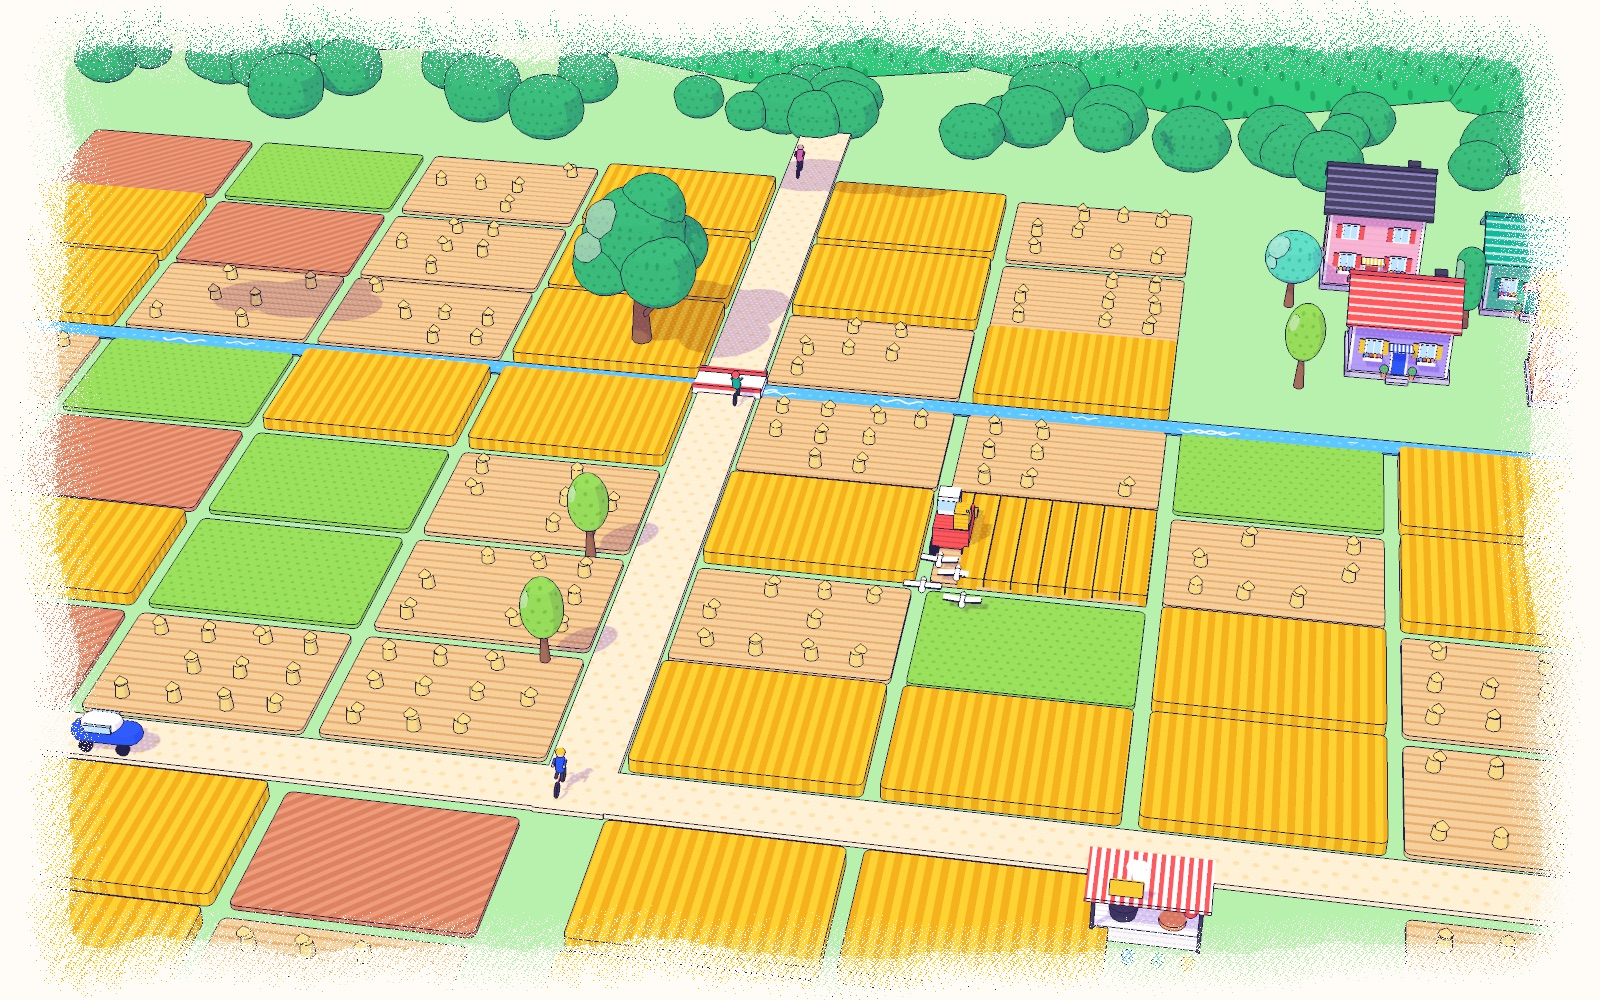
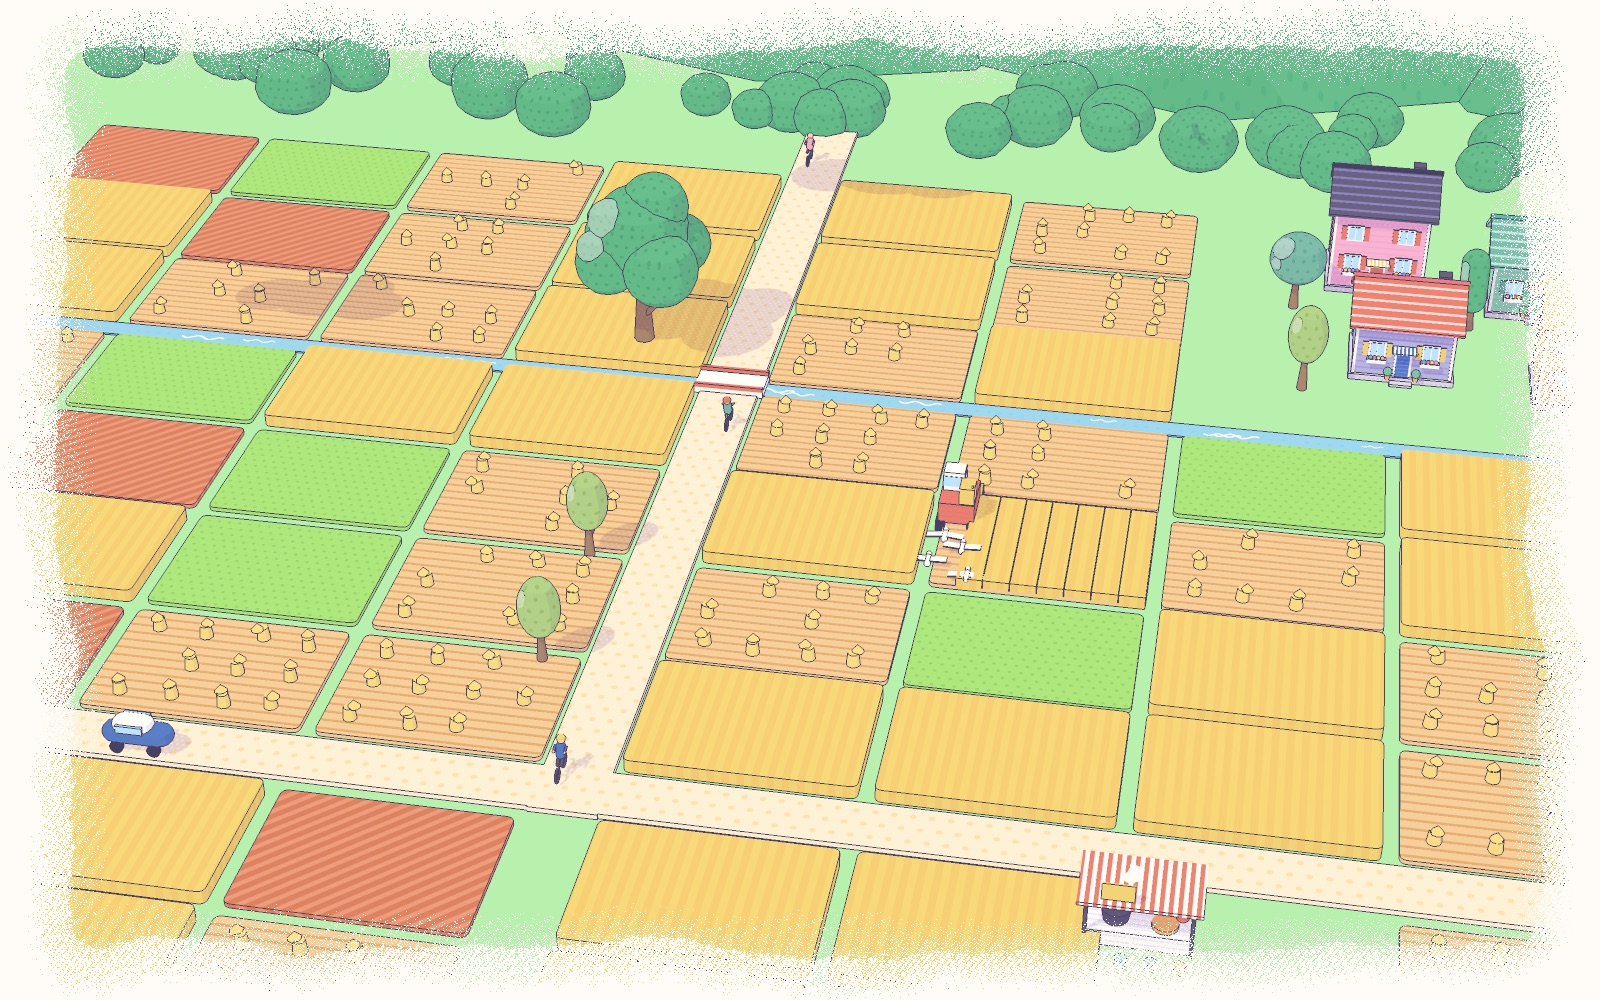
節氣圖鑑：配色改用日本傳統色（和色）
- 新增 wairo.js：和色調色盤 WA，以及 wa()，把 Memphis 原調色盤換成對應和色，其他高彩度色碼統一降彩度、提亮
- PAL、CROWN 改從 WA 取色；材質入口 flat() 一律經過 wa()
- 陰影改淡藤鼠色、描邊改鳩羽紫；頁面季節色和目錄點也換成和色
- 重拍封面

diff --git a/works/solar-terms/src/memphis.js b/works/solar-terms/src/memphis.js
@@ -5,13 +5,15 @@
 // - 直接畫到 WebGL canvas，不經過 2D canvas；下方三行字改用 DOM（見 main.js）
 // - 外框的雜訊用「設計單位」計算，手機和桌機的毛邊粗細看起來一致
 // - 新增 noEdge(obj)：不畫描邊、但仍會遮住後面物件描邊的東西（雲）
+// - 材質顏色先經過 wa()（./wairo.js）換成和色；陰影改成淡的藤鼠色、描邊改成鳩羽紫，配柔和的顏色（節氣圖鑑）
 // - 新增 flat(hex, { snowY })：高於 snowY（加一點起伏）的地方畫成白色積雪，逐像素計算，雪線邊緣是圓滑的（節氣圖鑑的合歡山）
 // Memphis Diorama: 3D engine
 // Flat materials (no lighting model: fixed face tones + hard-edged deep-indigo shadows + world-space patterns + facade windows),
 // normal/depth outlines, grainy spray-paint frame, three lines of type at the bottom. Everything is a deterministic function of t.
 import * as THREE from 'three';
+import { wa } from './wairo.js';
 
-export const INK = '#25214A', PAPER = '#FFFCF6';
+export const INK = '#4A4262', PAPER = '#FFFCF6';
 export const SUN = new THREE.Vector3(-0.42, 0.78, 0.46).normalize();
 
 // ---------- Random ----------
@@ -139,13 +141,13 @@ void main() {
   float tone = top ? 1.0 : 0.95;
   vec3 c = col * (uLit > 0.5 ? 1.0 : tone);
   if (uShadow > 0.5 && !emit) {
-    vec3 shc = mix(vec3(1.0), vec3(0.70, 0.58, 0.90), sh);
+    vec3 shc = mix(vec3(1.0), vec3(0.80, 0.74, 0.90), sh);
     // halftone: light dots printed in the shadows, like print (world space, moves with the object)
     if (uHT > 0.5 && sh > 0.5) {
       vec2 wq = (abs(n.y) > 0.5 ? vWP.xz : vec2(abs(n.x) > abs(n.z) ? vWP.z : vWP.x, vWP.y)) / 0.38;
       wq.x += 0.5 * mod(floor(wq.y), 2.0);
       float dd = 1.0 - aaStep(0.2, length(fract(wq) - 0.5));
-      shc = mix(shc, mix(vec3(1.0), vec3(0.70, 0.58, 0.90), sh * 0.45), dd);
+      shc = mix(shc, mix(vec3(1.0), vec3(0.80, 0.74, 0.90), sh * 0.45), dd);
     }
     c *= shc;
   }
@@ -174,18 +176,19 @@ void main() {
 }`;
 
 const linear = (hex) => new THREE.Color(hex);
+const tone = (hex) => new THREE.Color(wa(hex));
 const LAMPS = Array.from({ length: 48 }, () => new THREE.Vector4(0, 0, 0, 0));
 const GLOBAL = { uNight: { value: 0 }, uSun: { value: SUN.clone() }, uLamps: { value: LAMPS }, uWave: { value: 1e5 }, uWaveC: { value: new THREE.Vector2() }, uZone: { value: new THREE.Vector4() }, uZoneLit: { value: 1 }, uFlash: { value: 0 }, uDusk: { value: 0 }, uSeas: { value: new THREE.Vector3(0, 0, -1) }, uHT: { value: 0 } };
 
 export function flat(hex, o = {}) {
   const u = THREE.UniformsUtils.merge([THREE.UniformsLib.lights, {
-    uCol: { value: linear(hex) }, uPatCol: { value: linear(o.patCol || '#FFFFFF') },
-    uCol2: { value: linear(o.col2 || hex) }, uPatCol2: { value: linear(o.patCol2 || o.patCol || '#FFFFFF') }, uHasC2: { value: o.col2 ? 1 : 0 },
-    uInk: { value: linear(INK) }, uWinDay: { value: linear('#BFE4FF') }, uWinLit: { value: linear('#FFD36E') }, uWinDark: { value: linear('#2C2752') },
-    uWarm: { value: linear('#FFE3A3') },
+    uCol: { value: tone(hex) }, uPatCol: { value: tone(o.patCol || '#FFFFFF') },
+    uCol2: { value: tone(o.col2 || hex) }, uPatCol2: { value: tone(o.patCol2 || o.patCol || '#FFFFFF') }, uHasC2: { value: o.col2 ? 1 : 0 },
+    uInk: { value: linear(INK) }, uWinDay: { value: linear('#BFE4FF') }, uWinLit: { value: tone('#FFD36E') }, uWinDark: { value: linear('#2C2752') },
+    uWarm: { value: tone('#FFE3A3') },
     uPat: { value: o.pat || 0 }, uPatScale: { value: o.patScale || 1 }, uWin: { value: o.win ? 1 : 0 },
     uY0: { value: o.y0 || 0 }, uY1: { value: o.y1 || 0 }, uSeed: { value: o.seed || 0 },
-    uEmit: { value: o.emit ? 1 : 0 }, uNC: { value: linear(o.nightCol || '#000000') }, uHasNC: { value: o.nightCol ? 1 : 0 }, uZA: { value: o.zoneAware ? 1 : 0 }, uShadow: { value: o.shadow === false ? 0 : 1 }, uLit: { value: o.lit ? 1 : 0 }, uSnowY: { value: o.snowY ?? -1e5 },
+    uEmit: { value: o.emit ? 1 : 0 }, uNC: { value: tone(o.nightCol || '#000000') }, uHasNC: { value: o.nightCol ? 1 : 0 }, uZA: { value: o.zoneAware ? 1 : 0 }, uShadow: { value: o.shadow === false ? 0 : 1 }, uLit: { value: o.lit ? 1 : 0 }, uSnowY: { value: o.snowY ?? -1e5 },
   }]);
   Object.assign(u, GLOBAL);
   return new THREE.ShaderMaterial({ uniforms: u, vertexShader: FLAT_VS, fragmentShader: FLAT_FS, lights: true });

diff --git a/works/solar-terms/src/kit.js b/works/solar-terms/src/kit.js
@@ -5,6 +5,7 @@ import * as THREE from 'three';
 import { mergeGeometries } from 'three/addons/utils/BufferGeometryUtils.js';
 import { flat, mesh, box, rng, lerp, clamp01, ease, noEdge, setWave, setLamps } from './memphis.js';
 import { person, walk } from './people.js';
+import { WA, wa } from './wairo.js';
 
 export { THREE, flat, mesh, box, lerp, clamp01, ease, noEdge, person, walk, setWave, setLamps };
 export const TAU = Math.PI * 2;
@@ -37,11 +38,11 @@ export const lt = (hex, k) => '#' + new THREE.Color(hex).lerp(new THREE.Color(k 
 export const dots = (hex, s = 1, pc) => M(hex, { pat: 1, patCol: pc || lt(hex, -0.1), patScale: s });
 export const stripes = (hex, s = 1, pc, pat = 6) => M(hex, { pat, patCol: pc || lt(hex, -0.1), patScale: s });
 
-// 調色盤（STYLE.md §3 的例子）：每頁從這裡挑 5～7 個飽和色 + 2～3 個粉彩，依區域集中
+// 調色盤：沿用 Memphis 的名字，顏色換成和色（./wairo.js）。每頁挑 5～7 個主色 + 2～3 個粉彩，依區域集中
 export const PAL = {
-  yellow: '#FFD234', pink: '#FF7EB3', sky: '#5CC8FF', mint: '#5EDFB0', lilac: '#B9A0FF', peach: '#FF9C6B',
-  cobalt: '#2F5BFF', coral: '#FF5A5F', green: '#2FCB7A', teal: '#14B8A0', plum: '#4A4468', white: '#FFFFFF',
-  trunk: '#A8705A', base: '#DCD4EE', warm: '#FFD36E',
+  yellow: WA.tamago, pink: WA.toki, sky: WA.sora, mint: WA.byakuroku, lilac: WA.fuji, peach: WA.anzu,
+  cobalt: WA.tsuyukusa, coral: WA.sango, green: WA.wakatake, teal: WA.seiji, plum: WA.hatoba, white: WA.hakuji,
+  trunk: WA.kurumi, base: WA.shirafuji, warm: '#F9D58E',
 };
 
 // ---------- 合併幾何：靜態的小東西依材質合併成一個 mesh，省 draw call ----------
@@ -106,9 +107,9 @@ export function ribbon(pts, w, yAt = () => 0.05, seg = 200) {
 // ---------- 樹：樹幹 + 一根枝 + 一團 lobes，向陽面加亮的 lobes（STYLE.md §9：至少五種樹冠形狀）----------
 export const CS = (main, dot, bloom) => ({ main: dots(main, 0.75, dot), hi: dots(lt(main, 0.3), 0.6, lt(dot, 0.28)), bloom });
 export const CROWN = {
-  green: CS('#3CBE7E', '#2FA866'), lime: CS('#9BE15D', '#7FCC45'), teal: CS('#62E0C8', '#3FC7AE'), pine: CS('#1FA862', '#17905A'),
-  maple: CS('#FF7A59', '#F25C3C'), gold: CS('#FFC93C', '#F5B21C'),
-  lilac: CS('#C9B8FF', '#FFFFFF'), ice: CS('#BFE9FF', '#FFFFFF'), mint: CS('#A8F0D2', '#FFFFFF'),
+  green: CS(WA.wakatake, '#57AC7C'), lime: CS(WA.wakaba, '#A1C473'), teal: CS(WA.seiji, '#6AAD99'), pine: CS(WA.tokiwa, '#438A6A'),   // 若竹、若葉、青磁、常磐
+  maple: CS(WA.sango, '#DF715E'), gold: CS(WA.yamabuki, '#E6B158'),                                                                  // 珊瑚朱、山吹
+  lilac: CS(WA.fuji, '#FFFFFF'), ice: CS(WA.sora, '#FFFFFF'), mint: CS(WA.byakuroku, '#FFFFFF'),                                       // 藤、空、白緑
 };
 const TRUNK = () => M(PAL.trunk);
 export function tree(parent, R, x, z, kind, cs, s = 1, y = 0) {
@@ -430,7 +431,7 @@ export function steam(W, R, spots, perSpot = 5, period = 3.2) {
 // 一陣噴出來的小碎片（點擊的回饋：花瓣、紙屑、雪花），各自拋物線落下
 export function bursts(W, cols, n = 40) {
   const geo = new THREE.BoxGeometry(0.28, 0.06, 0.2);
-  const mats = cols.map((c) => new THREE.MeshBasicMaterial({ color: c }));
+  const mats = cols.map((c) => new THREE.MeshBasicMaterial({ color: wa(c) }));
   const ims = mats.map((m) => { const im = new THREE.InstancedMesh(geo, m, n); im.userData.noOutline = true; im.frustumCulled = false; im.count = 0; W.add(im); return im; });
   const ev = [];
   const m4 = new THREE.Matrix4(), q = new THREE.Quaternion(), e = new THREE.Euler(), sc = new THREE.Vector3(1, 1, 1), pos = new THREE.Vector3();

diff --git a/works/solar-terms/src/wairo.js b/works/solar-terms/src/wairo.js
@@ -1,0 +1,56 @@
+// 和色（日本傳統色）：節氣圖鑑不用 Memphis 原本的螢光高彩度色，改用帶一點白、帶一點灰的和色，畫面比較柔和甜。
+// 色碼是常見的參考值（各家色票會差一點），有幾個為了在 3D 裡分得出前後，往淡或往深調過，名字後面標「淡」「深」。
+export const WA = {
+  tamago: '#F8D97A',      // 卵色
+  yamabuki: '#F2C26B',    // 山吹色・淡
+  toki: '#F4B3C2',        // 鴇色
+  nadeshiko: '#EEBBCB',   // 撫子色
+  sakura: '#FBE3E6',      // 桜色
+  sora: '#A0D8EF',        // 空色
+  wasurenagusa: '#89C3EB',// 勿忘草色
+  tsuyukusa: '#5B7FC7',   // 露草色・深
+  byakuroku: '#A8D8B9',   // 白緑
+  wakatake: '#68BE8D',    // 若竹色
+  wakaba: '#B6D58A',      // 若葉色
+  seiji: '#7EBEAB',       // 青磁色
+  tokiwa: '#4E9A78',      // 常磐色・淡
+  fuji: '#BBBCDE',        // 藤色
+  shirafuji: '#E4DCE8',   // 白藤
+  fujinezu: '#A6A5C4',    // 藤鼠
+  anzu: '#F7B977',        // 杏色
+  sango: '#EE836F',       // 珊瑚朱色
+  akane: '#D9665B',       // 茜色・淡
+  kurumi: '#B08A72',      // 胡桃色・淡
+  hatoba: '#6B6283',      // 鳩羽紫・深（柱子、輪子這類深色零件）
+  kinari: '#FBF6EC',      // 生成り色
+  hakuji: '#FFFDF8',      // 白磁
+};
+
+// Memphis 原調色盤 → 和色。場景裡直接寫死的這些色碼也一起換
+const SWAP = {
+  '#FFD234': WA.tamago, '#FF7EB3': WA.toki, '#5CC8FF': WA.sora, '#5EDFB0': WA.byakuroku, '#B9A0FF': WA.fuji,
+  '#FF9C6B': WA.anzu, '#2F5BFF': WA.tsuyukusa, '#FF5A5F': WA.sango, '#2FCB7A': WA.wakatake, '#14B8A0': WA.seiji,
+  '#4A4468': WA.hatoba, '#A8705A': WA.kurumi, '#DCD4EE': WA.shirafuji, '#FFD36E': '#F9D58E', '#FFFFFF': WA.hakuji, '#25214A': '#4A4262',
+};
+
+// 其他色碼：彩度高的（HSV 的 S > 0.56，也就是 Memphis 的螢光色）壓到 0.46～0.55、稍微提亮；
+// 本來就柔和的顏色（和色本身、粉彩、白）幾乎不變，所以同一個顏色轉兩次也不會越來越灰
+const cache = new Map();
+const hx = (v) => Math.round(v * 255).toString(16).padStart(2, '0').toUpperCase();
+export function wa(hex) {
+  if (typeof hex !== 'string') return hex;
+  const k = hex.toUpperCase();
+  if (SWAP[k]) return SWAP[k];
+  if (cache.has(k)) return cache.get(k);
+  const n = parseInt(k.slice(1), 16), r = (n >> 16 & 255) / 255, g = (n >> 8 & 255) / 255, b = (n & 255) / 255;
+  const mx = Math.max(r, g, b), mn = Math.min(r, g, b), s = mx > 0 ? (mx - mn) / mx : 0;
+  let out = k;
+  if (s > 0.56) {
+    // 保留色相，換掉 S、V：先把顏色拆成「最暗的分量 + 色相方向」，再依新的 S、V 組回去
+    const s2 = 0.46 + (s - 0.56) * 0.2, v2 = Math.min(1, mx + (1 - mx) * 0.2);
+    const f = (c) => v2 * (1 - s2 * (mx - c) / (mx - mn));
+    out = '#' + hx(f(r)) + hx(f(g)) + hx(f(b));
+  }
+  cache.set(k, out);
+  return out;
+}

diff --git a/works/solar-terms/src/main.js b/works/solar-terms/src/main.js
@@ -4,6 +4,7 @@
 import * as THREE from 'three';
 import { Diorama, setHalftone, setNight, setDusk, setLamps, setWave, setSeason, clamp01, ease } from './memphis.js';
 import { TERMS, SEASONS, schedule } from './terms.js';
+import { wa } from './wairo.js';
 
 const FPS = 60, LOOP = 30;
 const TAU = Math.PI * 2, D2R = THREE.MathUtils.degToRad;
@@ -98,7 +99,7 @@ let active = null, nowT = 0;
 function activate(s) {
   if (active) dio.scene.remove(active.W);
   active = s; dio.scene.add(s.W);
-  dio.scene.background = new THREE.Color(s.bg || '#A5EBAA');
+  dio.scene.background = new THREE.Color(wa(s.bg || '#A5EBAA'));
   setNight(s.night || 0); setDusk(s.dusk || 0); setLamps(s.lamps || []); setWave(1e5); setSeason(0, 0, -1);
   s.enterT = nowT;
 }
@@ -157,7 +158,8 @@ function setPage(i) {
 const pad = (n) => String(n).padStart(2, '0');
 const md = (d) => `${pad(d.getMonth() + 1)}.${pad(d.getDate())}`;
 const esc = (s) => String(s).replace(/[&<>"]/g, (c) => ({ '&': '&amp;', '<': '&lt;', '>': '&gt;', '"': '&quot;' }[c]));
-const ACCENT = { spring: ['#0E9F7A', '#DDF8EE'], summer: ['#B87A00', '#FFF3C4'], autumn: ['#E0602F', '#FFE6D9'], winter: ['#2E5BE6', '#E3EDFF'] };
+// 季節色（和色）：春 常磐色、夏 山吹色、秋 茜色、冬 露草色；tint 是同色系的淡色
+const ACCENT = { spring: ['#3F8C6B', '#E3F1E8'], summer: ['#B58A2E', '#FBF0D6'], autumn: ['#C7594E', '#FBE7E2'], winter: ['#4F6FB5', '#E6ECF7'] };
 function renderText(i) {
   const T = TERMS[i], S = SEASONS[T.season], D = DATES[i];
   const days = Math.round((D.end - D.start) / 86400000) + 1;
@@ -195,7 +197,7 @@ function renderCaption(i) {
 
 // ---------- 目錄的點 ----------
 const dotsBox = index.querySelector('.dots');
-const SEA_COL = { spring: '#2FCB7A', summer: '#FFC21A', autumn: '#FF8A50', winter: '#4F7BFF' };
+const SEA_COL = { spring: '#68BE8D', summer: '#F2C26B', autumn: '#EE836F', winter: '#7F9BD6' };   // 若竹、山吹、珊瑚朱、露草（淡）
 const dotEls = TERMS.map((T, i) => {
   const b = document.createElement('button');
   b.type = 'button'; b.className = `dot${T.scene ? ' has' : ''}${i % 6 === 0 && i ? ' gap' : ''}`;

diff --git a/works/solar-terms/index.html b/works/solar-terms/index.html
@@ -9,7 +9,7 @@
     <link rel="preconnect" href="https://fonts.gstatic.com" crossorigin />
     <link href="https://fonts.googleapis.com/css2?family=IBM+Plex+Mono&family=Inter+Tight:wght@400;600&family=Noto+Sans+TC:wght@400;500;600&display=swap" rel="stylesheet" />
     <style>
-      :root { --paper: #FFFCF6; --ink: #25214A; --text: #2B2840; --grey: #8D8AA0; --light: #B7B4C6; --accent: #2E5BE6; --tint: #E3EDFF; }
+      :root { --paper: #FFFCF6; --ink: #3E3756; --text: #3A3550; --grey: #8D8AA0; --light: #B7B4C6; --accent: #4F6FB5; --tint: #E6ECF7; }
       html, body { margin: 0; height: 100%; background: var(--paper); overflow: hidden; }
       body { color: var(--text); font-family: "Inter Tight", "Noto Sans TC", "PingFang TC", system-ui, sans-serif; -webkit-tap-highlight-color: transparent; }
       canvas { display: block; position: fixed; left: 0; top: 0; touch-action: none; background: var(--paper); }
@@ -146,9 +146,9 @@
 
     <div id="caption" aria-hidden="true">
       <svg class="marks" width="58" height="14" viewBox="-29 -7 58 14">
-        <circle cx="-19" cy="0" r="5" fill="#FFC93C" />
-        <path d="M-5.5 4.5 L0 -5.5 L5.5 4.5 Z" fill="#FF7FAA" />
-        <path d="M11 0 L15 -3.5 L19.5 3.5 L24 0" fill="none" stroke="#2E5BE6" stroke-width="2.2" stroke-linecap="round" stroke-linejoin="round" />
+        <circle cx="-19" cy="0" r="5" fill="#F2C26B" />
+        <path d="M-5.5 4.5 L0 -5.5 L5.5 4.5 Z" fill="#F4B3C2" />
+        <path d="M11 0 L15 -3.5 L19.5 3.5 L24 0" fill="none" stroke="#5B7FC7" stroke-width="2.2" stroke-linecap="round" stroke-linejoin="round" />
       </svg>
       <p class="l1"></p>
       <p class="l2"></p>
